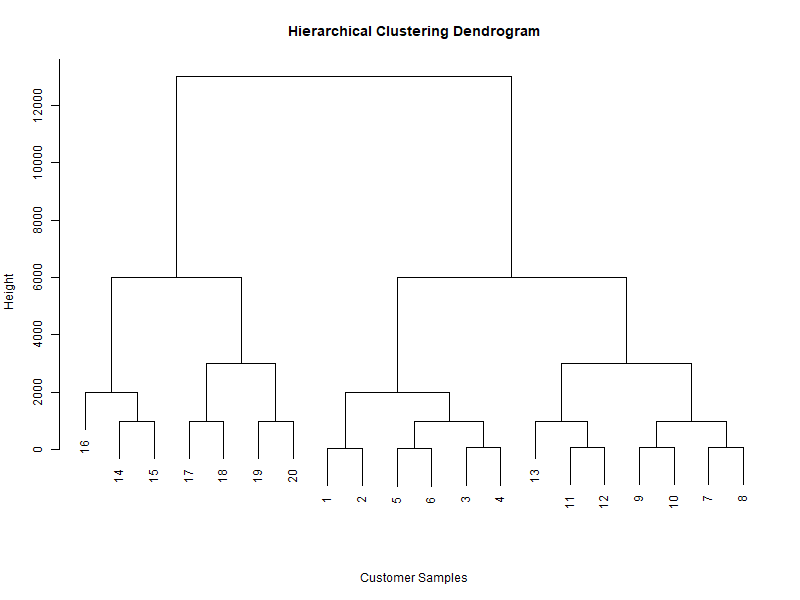
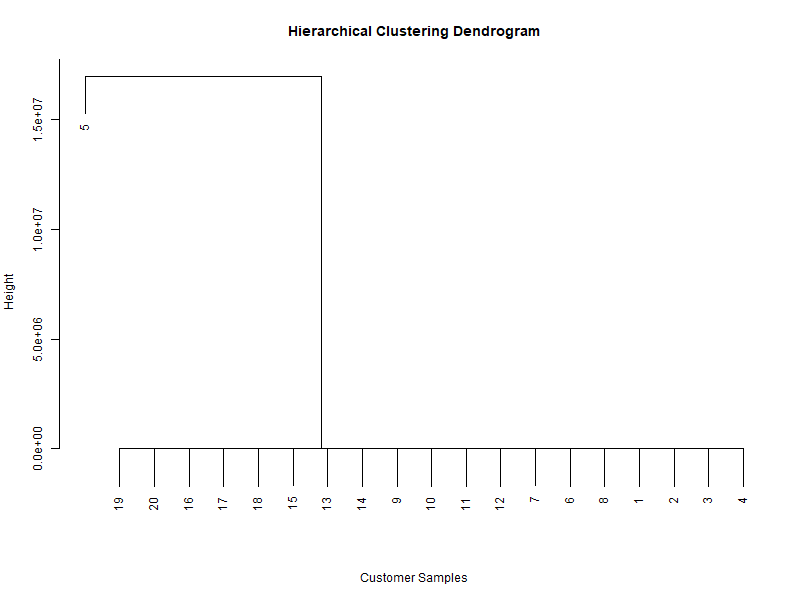
lala

diff --git a/templates/anomaly_detection_z_scoring.html b/templates/anomaly_detection_z_scoring.html
@@ -56,11 +56,16 @@
                     html += "<span class='metric-badge'><strong>SD:</strong> " + colData.sd + "</span>";
                     html += "</div>";
 
-                    if (colData.has_anomalies && colData.anomaly_ids.length > 0) {
+                    let ids = Array.isArray(colData.anomaly_ids) ? colData.anomaly_ids : [colData.anomaly_ids];
+                    let vals = Array.isArray(colData.anomaly_values) ? colData.anomaly_values : [colData.anomaly_values];
+
+                    if (colData.has_anomalies && ids.length > 0 && ids[0] !== null) {
                         html += "<p style='color:#c62828; font-weight:bold; margin-bottom:5px;'>Anomalies Found:</p>";
                         html += "<ul class='anomaly-list'>";
-                        for (let i = 0; i < colData.anomaly_ids.length; i++) {
-                            html += "<li><strong>ID " + colData.anomaly_ids[i] + ":</strong> Value: " + colData.anomaly_values[i] + " (Z-Score > 2)</li>";
+                        for (let i = 0; i < ids.length; i++) {
+                            if(ids[i] !== undefined && vals[i] !== undefined) {
+                                html += "<li><strong>Customer ID " + ids[i] + ":</strong> Value: " + Number(vals[i]).toLocaleString() + "</li>";
+                            }
                         }
                         html += "</ul>";
                     } else {

diff --git a/templates/kmeans.html b/templates/kmeans.html
@@ -34,6 +34,9 @@
             <img id="kmeans-plot" src="" alt="K-Means Cluster Plot" style="width: 100%; height: auto; border: 1px solid #ddd; border-radius: 4px;">
         </div>
     </div>
+        <footer>
+        <p>K-Means Model Demo.</p>
+    </footer>
 
     <script>
         function runModel() {

diff --git a/app.py b/app.py
@@ -1,69 +1,102 @@
+import csv
 import json
+import math
 import os
-import subprocess
 from flask import Flask, jsonify, render_template, request
 
 app = Flask(__name__)
-R_PATH = "Rscript"
+
 
 @app.route("/")
 def home():
     return render_template("index.html")
 
+
 @app.route("/kmeans")
 def kmeans_page():
     return render_template("kmeans.html")
+
 
 @app.route("/hierarchial")
 def hierarchial_page():
     return render_template("hierarchial.html")
 
+
 @app.route("/anomaly_detection_z_scoring")
-def pca_page():
+def anomaly_detection_page():
     return render_template("anomaly_detection_z_scoring.html")
 
-@app.route("/run-kmeans", methods=["POST"])
-def run_kmeans():
-    clusters = request.form.get("clusters", "3")
-    try:
-        result = subprocess.run(
-            [R_PATH, "r_models/kmeans.R", "data/data.csv", clusters],
-            capture_output=True,
-            text=True,
-        )
-        if result.returncode != 0:
-            return jsonify({"error": result.stderr}), 500
-        return jsonify(json.loads(result.stdout))
-    except Exception as e:
-        return jsonify({"error": str(e)}), 500
-
-@app.route("/run-hierarchial", methods=["POST"])
-def run_hierarchial():
-    try:
-        result = subprocess.run(
-            [R_PATH, "r_models/hierarchial.R", "data/data.csv"],
-            capture_output=True,
-            text=True,
-        )
-        if result.returncode != 0:
-            return jsonify({"error": result.stderr}), 500
-        return jsonify(json.loads(result.stdout))
-    except Exception as e:
-        return jsonify({"error": str(e)}), 500
 
 @app.route("/run-anomaly_detection_z_scoring", methods=["POST"])
-def run_anomaly_model():  # Renamed function to avoid naming collisions
+def run_anomaly_model():
     try:
-        result = subprocess.run(
-            [R_PATH, "r_models/anomaly_detection_z_scoring.R", "data/data.csv"],
-            capture_output=True,
-            text=True,
-        )
-        if result.returncode != 0:
-            return jsonify({"error": result.stderr}), 500
-        return jsonify(json.loads(result.stdout))
+        csv_path = "data/data.csv"
+        if not os.path.exists(csv_path):
+            csv_path = os.path.join(os.path.dirname(__file__), "data/data.csv")
+
+        customer_ids = []
+        data_dict = {"Age": [], "AnnualIncome": [], "SpendingScore": []}
+
+        with open(csv_path, mode="r", encoding="utf-8") as f:
+            reader = csv.DictReader(f)
+            for row in reader:
+                customer_ids.append(int(row["CustomerID"]))
+                data_dict["Age"].append(float(row["Age"]))
+                data_dict["AnnualIncome"].append(float(row["AnnualIncome"]))
+                data_dict["SpendingScore"].append(float(row["SpendingScore"]))
+
+        results = {}
+
+        for col_name, values in data_dict.items():
+            n = len(values)
+            mean_val = sum(values) / n
+            variance = sum((x - mean_val) ** 2 for x in values) / (n - 1)
+            sd_val = math.sqrt(variance)
+
+            sorted_vals = sorted(values)
+            median_val = (
+                sorted_vals[n // 2]
+                if n % 2 != 0
+                else (sorted_vals[(n // 2) - 1] + sorted_vals[n // 2]) / 2.0
+            )
+
+            abs_deviations = [abs(x - median_val) for x in values]
+            sorted_deviations = sorted(abs_deviations)
+            mad_val = (
+                sorted_deviations[n // 2]
+                if n % 2 != 0
+                else (
+                    sorted_deviations[(n // 2) - 1] + sorted_deviations[n // 2]
+                )
+                / 2.0
+            )
+            mad_val = mad_val * 1.4826
+
+            if mad_val == 0:
+                mad_val = 1.0
+
+            anomaly_ids = []
+            anomaly_values = []
+
+            for idx, val in enumerate(values):
+                robust_z = (val - median_val) / mad_val
+                if abs(robust_z) > 3.0:
+                    anomaly_ids.append(customer_ids[idx])
+                    anomaly_values.append(val)
+
+            results[col_name] = {
+                "mean": round(mean_val, 2),
+                "sd": round(sd_val, 2),
+                "has_anomalies": len(anomaly_ids) > 0,
+                "anomaly_ids": anomaly_ids,
+                "anomaly_values": anomaly_values,
+            }
+
+        return jsonify(results)
+
     except Exception as e:
         return jsonify({"error": str(e)}), 500
+
 
 if __name__ == "__main__":
     app.run(debug=True)
